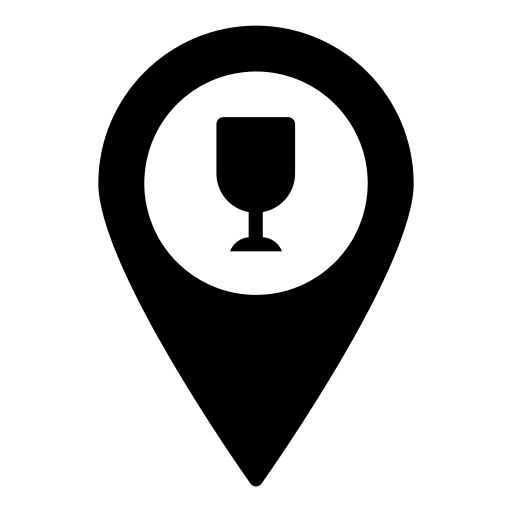
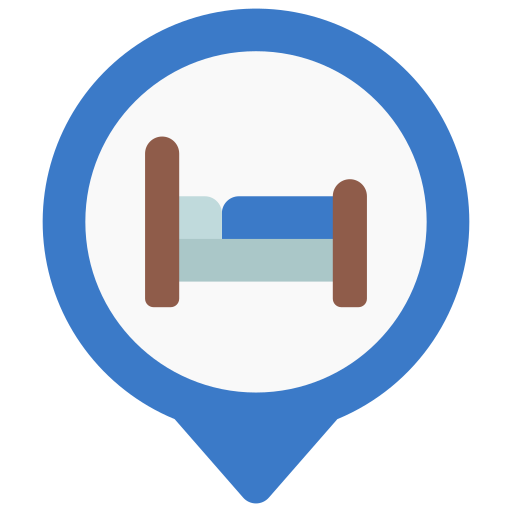
Update Map.js

diff --git a/Screens/MapScreen.js b/Screens/MapScreen.js
@@ -5,8 +5,9 @@ import {Marker, Callout} from 'react-native-maps';
 import {Text} from '@rneui/base';
 import Geolocation from '@react-native-community/geolocation';
 import axios from 'axios';
-import { styles } from '../Helpers/AppStyles';
-import * as constants from '../Helpers/Constants'
+import {styles} from '../Helpers/AppStyles';
+import * as constants from '../Helpers/Constants';
+import {markerImages} from '../Helpers/MarkerImages';
 
 export default class MapScreen extends React.Component {
 
@@ -122,6 +123,9 @@ export default class MapScreen extends React.Component {
                          }}
                          showsUserLocation={true}
                          showsMyLocationButton={true}
+                         showsCompass={true} // Hide compass button
+                         showsBuildings={false}
+                         showsPointsOfInterest={false}
                          ref={(ref) => {
                              this.mapRef = ref;
                          }}
@@ -141,9 +145,13 @@ export default class MapScreen extends React.Component {
                                 <Marker
                                     key={marker.id}
                                     coordinate={{latitude: marker.latitude, longitude: marker.longitude}}
-                                    image={require('../assets/images/markers/marker_1.png')}
-
                                 >
+                                    <View style={{width: 30, height: 30}}>
+                                        <Image
+                                            source={markerImages[marker.category_id]}
+                                            style={{width: '100%', height: '100%'}}
+                                        />
+                                    </View>
                                     <Callout style={{height: 150, width: 150}} onPress={() => {
                                         selectLocation(marker);
                                     }}>
@@ -183,7 +191,8 @@ export default class MapScreen extends React.Component {
                 )}
                 {this.state.bottomTooFarMessage ? (
                     <View style={styles.bottomTextContainer}>
-                        <Text style={[styles.bottomText, styles.bottomTextError]}>{constants.msgZoomOutLimitReached}</Text>
+                        <Text
+                            style={[styles.bottomText, styles.bottomTextError]}>{constants.msgZoomOutLimitReached}</Text>
                     </View>
                 ) : (
                     <View>

diff --git a/Helpers/MarkerImages.js b/Helpers/MarkerImages.js
@@ -1,0 +1,8 @@
+import markerImage1 from '../assets/images/markers/marker_1.png';
+import markerImage2 from '../assets/images/markers/marker_2.png';
+
+export const markerImages = [
+    null, // Index 0 (unused)
+    markerImage1, // Index 1
+    markerImage2, // Index 2
+];
